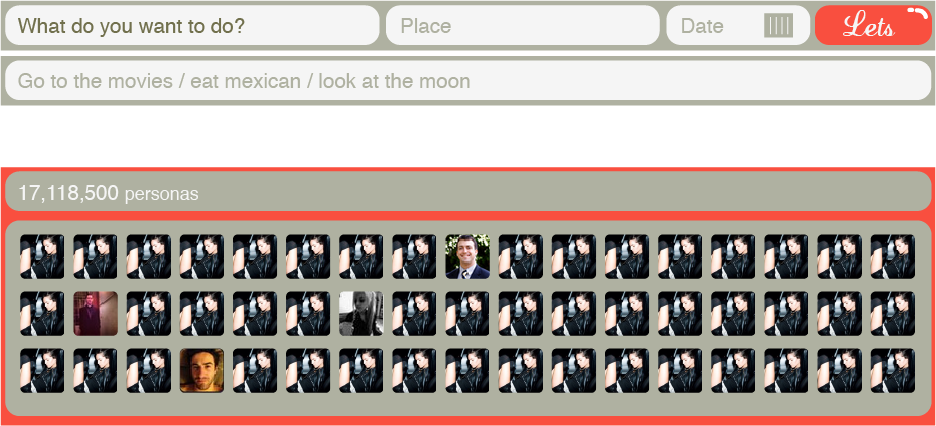
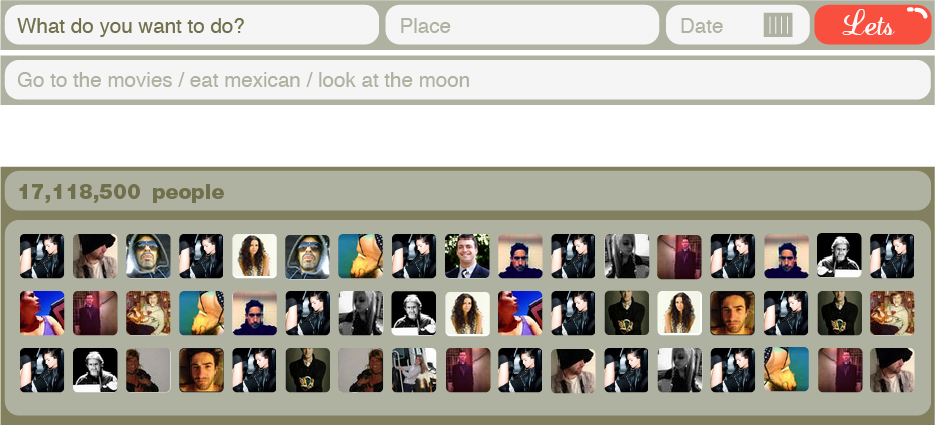
cambio categorias

diff --git a/index.html b/index.html
@@ -26,6 +26,9 @@
     <div id="categories" class="categories">
       <img src="images/categories.png"/>
     </div>
+    <div id="footer">
+      <img src="images/footer.png"/>
+    </div>
   </div>
   </body>
 </html>

diff --git a/meetto.css b/meetto.css
@@ -16,7 +16,7 @@
 }
 
 .categories {
-  height:300px;
+  height:450px;
   overflow:auto;
 }
 
